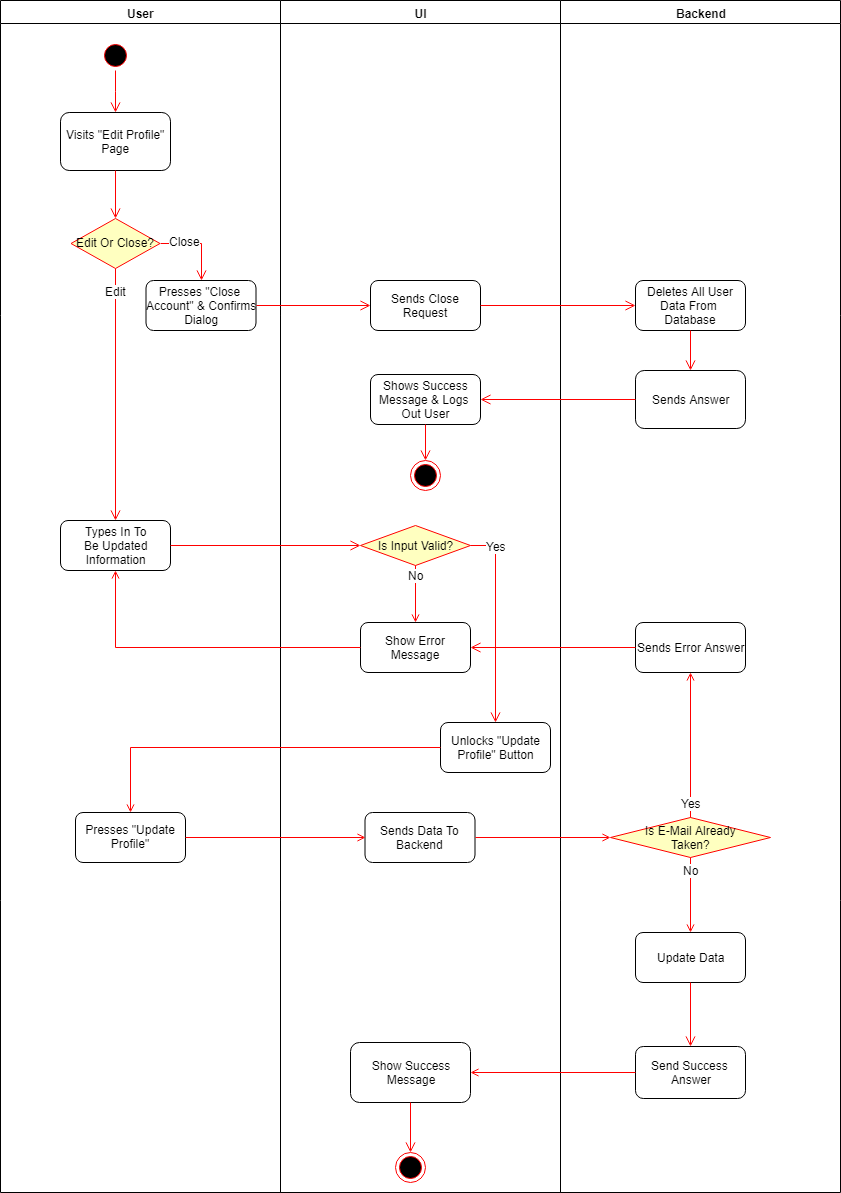
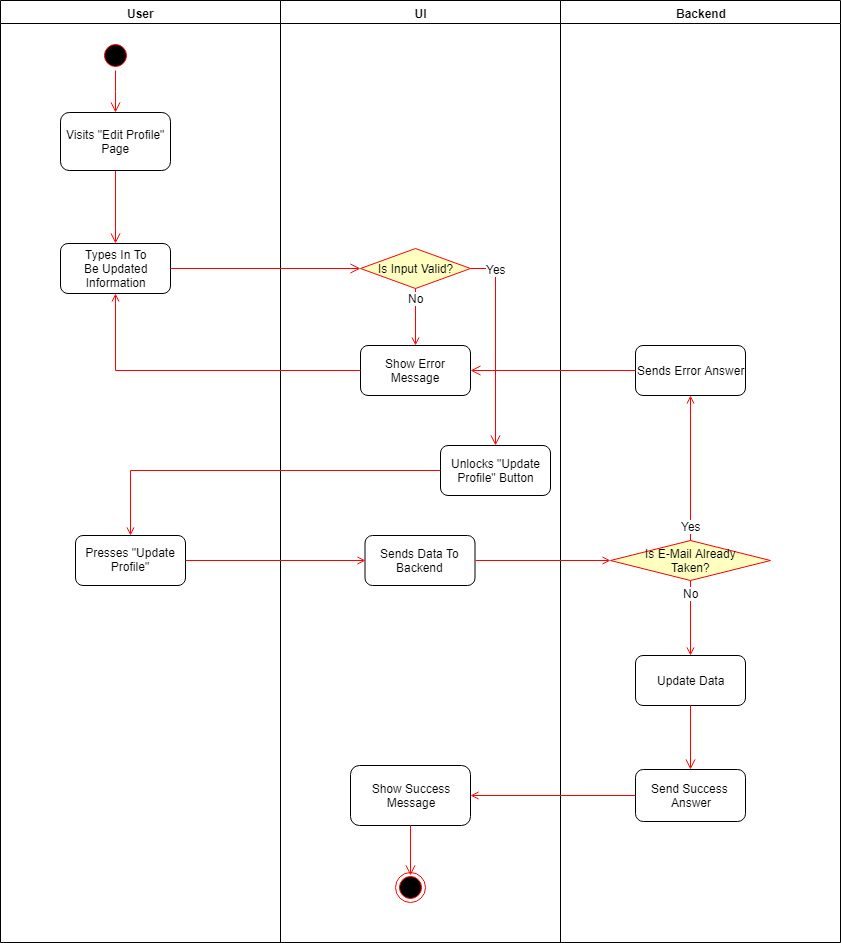
Added Flowchart #FCC-65

diff --git a/UseCases/CloseAccount/CloseAccount.md b/UseCases/CloseAccount/CloseAccount.md
@@ -1,4 +1,4 @@
-# Use-Case Specification: Edit Profile
+# Use-Case Specification: Close Account
 
 
 ## 1. General
@@ -33,7 +33,7 @@ The user needs to be logged in to close his account.
 ## 5. Postconditions
 Description of what is required after the user submitted the form or requested to delete the account.
 
-### 5.1 Delete data from backend
+### 5.1 Delete data from database
 Check which information the user wants to update and if they are valid - e.g. check if the
 E-Mail doesn't already exist in the database.
 

diff --git a/UseCases/Logout/Logout.md b/UseCases/Logout/Logout.md
@@ -1,4 +1,4 @@
-# Use-Case Specification: Register
+# Use-Case Specification: Logout
 
 
 ## 1. General

diff --git a/UseCases/Login/Login.md b/UseCases/Login/Login.md
@@ -1,4 +1,4 @@
-# Use-Case Specification: Register
+# Use-Case Specification: Login
 
 
 ## 1. General
